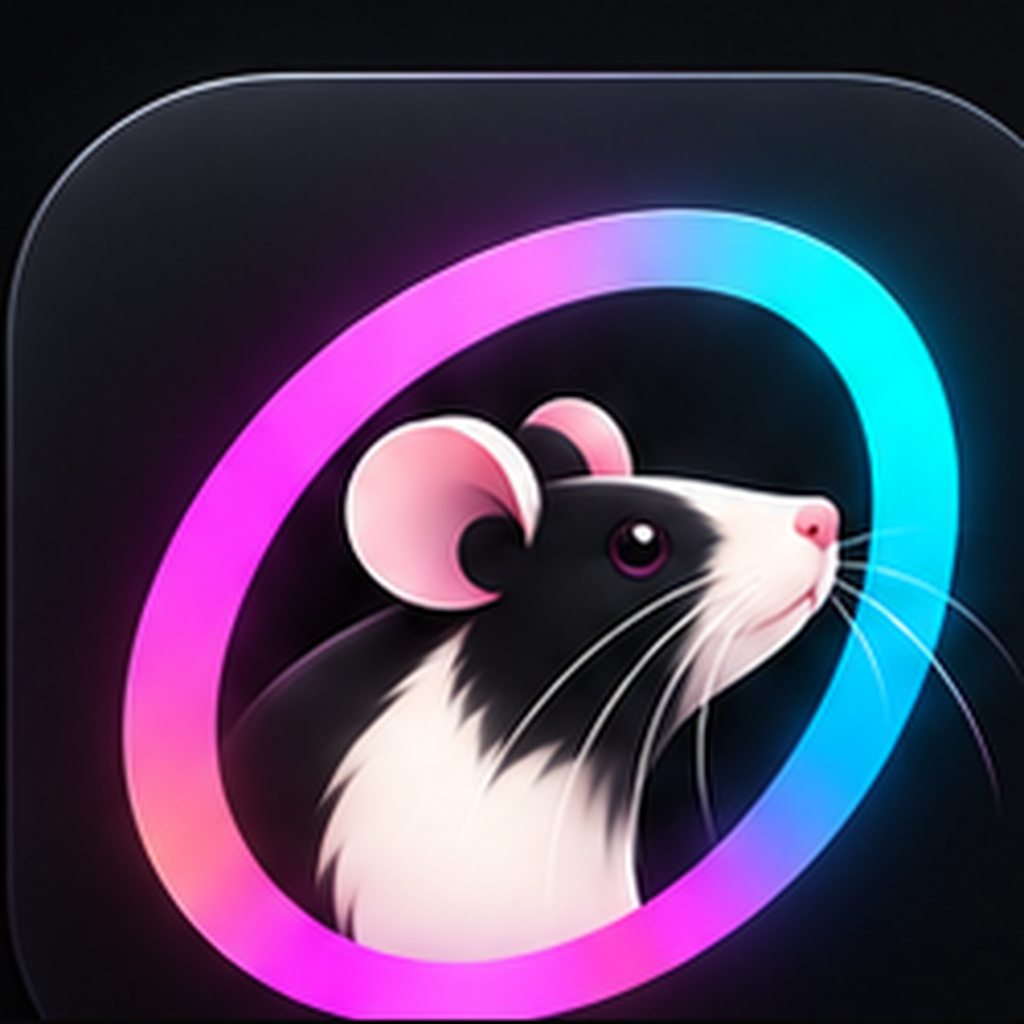
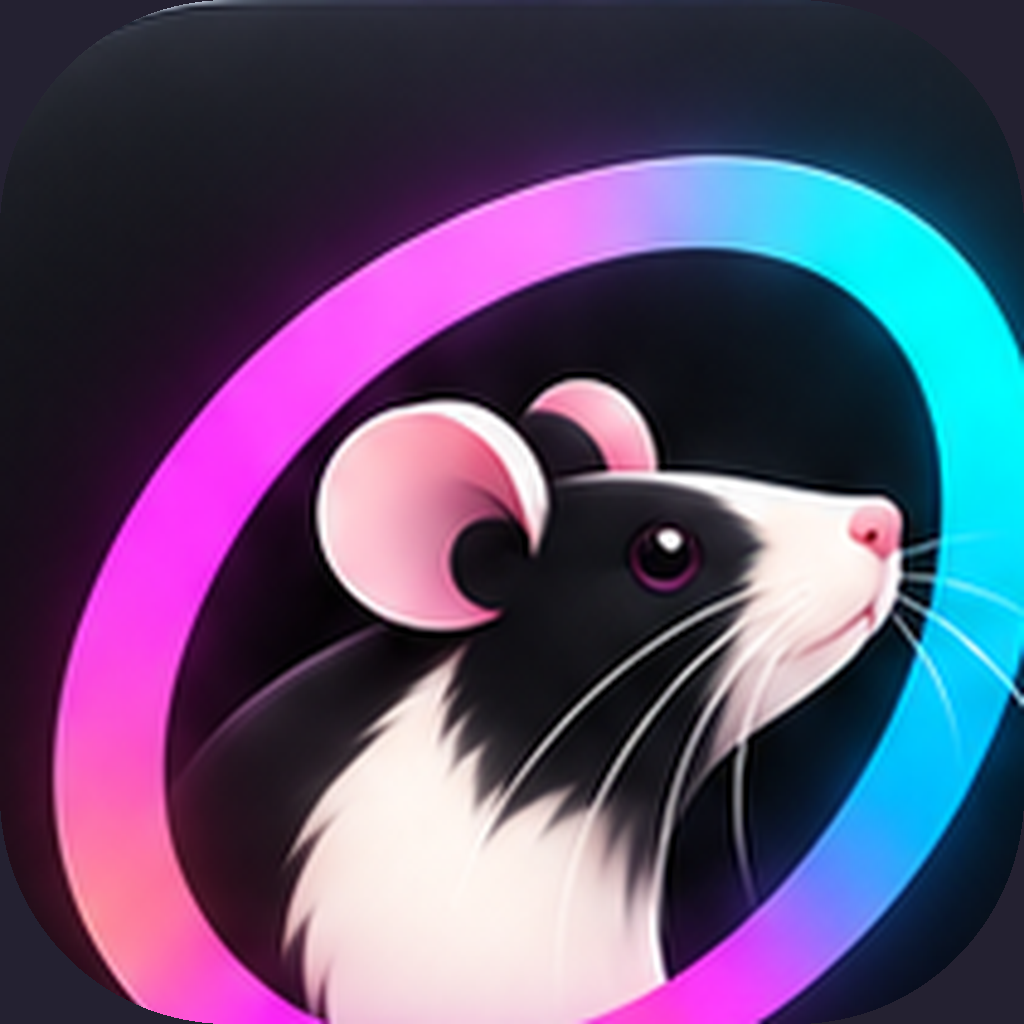
ícone no squircle sem moldura; workspace antigo Colo vira Odete
O recorte enche o canvas. Arquivos, nome do projeto e recentes
com COLO/colo passam a Odete na hidratação.

diff --git a/src/styles.css b/src/styles.css
@@ -226,7 +226,7 @@ input, textarea, select { font: inherit; font-size: 16px; }
 
 .rail { width: 52px; flex: 0 0 52px; display: flex; flex-direction: column; align-items: center; gap: 4px; padding: 8px 0; border-right: 1px solid var(--color-border); background: var(--color-bg-elevated); }
 .rail-mark { width: 32px; height: 32px; display: grid; place-items: center; overflow: hidden; border-radius: 8px; }
-.rail-mark img { width: 32px; height: 32px; display: block; object-fit: cover; transform: scale(1.08); }
+.rail-mark img { width: 32px; height: 32px; display: block; object-fit: cover; }
 .rail-btn { width: 40px; height: 40px; display: grid; place-items: center; border: 0; border-radius: 10px; background: transparent; color: var(--color-fg-muted); }
 .rail-btn.is-on, .rail-btn:hover { background: var(--color-bg-subtle); color: var(--color-fg); }
 .rail-space { flex: 1; }
@@ -1563,12 +1563,12 @@ input, textarea, select { font: inherit; font-size: 16px; }
   width: min(420px, 100%);
 }
 .welcome-icon {
-  width: 180px;
-  height: 180px;
-  object-fit: contain;
-  background: transparent;
-  border-radius: 0;
-  margin: 0 0 20px;
+  width: 168px;
+  height: 168px;
+  object-fit: cover;
+  border-radius: 22.5%;
+  background: #08080a;
+  margin: 0 0 22px;
 }
 .welcome-word {
   width: min(300px, 82vw);

diff --git a/src/lib/workspace/store.ts b/src/lib/workspace/store.ts
@@ -13,6 +13,7 @@ import { useTerms } from "./terms";
 import { lineDiff } from "./diff";
 import { isNoisePath } from "./ignore";
 import { virtualNpmFile, virtualNpmNames } from "./npm-lock";
+import { rebrandFiles, rebrandName, rebrandPath } from "./brand";
 
 function cloneFiles(files: FileMap): FileMap {
   return { ...files };
@@ -976,7 +977,11 @@ export const useWorkspace = create<WorkspaceState>()(
         if (!state.stash) state.stash = [];
         if (!state.conflicts) state.conflicts = [];
         if (!state.projectId) state.projectId = "seed";
-        if (!state.projectName || state.projectName === "colo") state.projectName = "odete";
+        if (state.files) state.files = rebrandFiles(state.files);
+        if (state.tabs) state.tabs = state.tabs.map(rebrandPath);
+        if (state.openPath) state.openPath = rebrandPath(state.openPath);
+        if (state.staged) state.staged = state.staged.map(rebrandPath);
+        state.projectName = rebrandName(state.projectName);
         if (state.remote === undefined) state.remote = null;
         state.hydrated = true;
       },

diff --git a/src/lib/workspace/projects.ts b/src/lib/workspace/projects.ts
@@ -4,6 +4,7 @@ import { idbKv } from "./idb";
 import { persistAuth } from "./secrets";
 import type { FileMap } from "./types";
 import { githubUser, type GithubUser } from "@/lib/github/api";
+import { rebrandFiles, rebrandName } from "./brand";
 
 export type RecentProject = {
   id: string;
@@ -121,6 +122,17 @@ export const useProjects = create<ProjectsState>()(
       name: "colo-projects-v2",
       partialize: (s) => ({ recents: s.recents, library: s.library, github: s.github }),
       storage: createJSONStorage(() => idbKv),
+      merge: (persisted, current) => {
+        const p = { ...(current as ProjectsState), ...((persisted ?? {}) as Partial<ProjectsState>) };
+        const stamp = (r: RecentProject): RecentProject => ({
+          ...r,
+          name: rebrandName(r.name),
+          snapshot: r.snapshot ? rebrandFiles(r.snapshot) : r.snapshot,
+        });
+        if (p.recents) p.recents = p.recents.map(stamp);
+        if (p.library) p.library = p.library.map(stamp);
+        return p;
+      },
     },
   ),
 );

diff --git a/src/lib/workspace/brand.ts b/src/lib/workspace/brand.ts
@@ -1,0 +1,30 @@
+import type { FileMap } from "./types";
+
+export const APP_NAME = "Odete";
+
+export function rebrandText(text: string): string {
+  return text
+    .replaceAll("colo-demo", "odete-demo")
+    .replaceAll("IDE no colo.", "IDE no dispositivo.")
+    .replaceAll("IDE no colo", "IDE no dispositivo")
+    .replaceAll("COLO", "ODETE")
+    .replaceAll("Colo", "Odete")
+    .replace(/(^|[^A-Za-z])colo(?![A-Za-z])/g, "$1odete");
+}
+
+export function rebrandPath(path: string): string {
+  return path.replace(/(^|\/)\.colo(\/|$)/g, "$1.odete$2");
+}
+
+export function rebrandFiles(files: FileMap): FileMap {
+  const out: FileMap = {};
+  for (const [path, text] of Object.entries(files)) {
+    out[rebrandPath(path)] = rebrandText(text);
+  }
+  return out;
+}
+
+export function rebrandName(name: string | undefined | null): string {
+  if (!name || /^colo$/i.test(name)) return "odete";
+  return rebrandText(name);
+}

diff --git a/src/components/ide/welcome.tsx b/src/components/ide/welcome.tsx
@@ -5,8 +5,8 @@ export function Welcome() {
     <div className="welcome" role="dialog" aria-label="Odete">
       <div className="welcome-glow" aria-hidden />
       <div className="welcome-inner">
-        <img className="welcome-icon" src="/brand/odete-icon.png?v=3" width={180} height={180} alt="" />
-        <img className="welcome-word" src="/brand/odete-wordmark.png?v=3" alt="Odete" />
+        <img className="welcome-icon" src="/brand/odete-icon.png?v=4" width={168} height={168} alt="" />
+        <img className="welcome-word" src="/brand/odete-wordmark.png?v=4" alt="Odete" />
         <p className="welcome-kicker">IDE para iPad e iPhone</p>
         <p className="welcome-line">Ideias se sentem mais em casa aqui.</p>
         <button type="button" className="welcome-go" onClick={enterWorkspace}>

diff --git a/src/components/ide/activity-bar.tsx b/src/components/ide/activity-bar.tsx
@@ -20,7 +20,7 @@ export function ActivityBar() {
   return (
     <nav className="rail" aria-label="Atividade">
       <span className="rail-mark" title="Odete">
-        <img src="/brand/odete-icon.png?v=3" width={32} height={32} alt="" />
+        <img src="/brand/odete-icon.png?v=4" width={32} height={32} alt="" />
       </span>
       {ITEMS.map((it) => {
         const Icon = it.icon;

diff --git a/src/lib/workspace/seed.ts b/src/lib/workspace/seed.ts
@@ -121,7 +121,7 @@ Sem build step além do Vite. Acessível, contraste ok, sem dependência nova.
         <p id="out" class="out">0 cliques</p>
       </main>
       <footer>
-        <span>colo-demo</span>
+        <span>odete-demo</span>
         <span>sandbox no dispositivo</span>
       </footer>
     </div>
